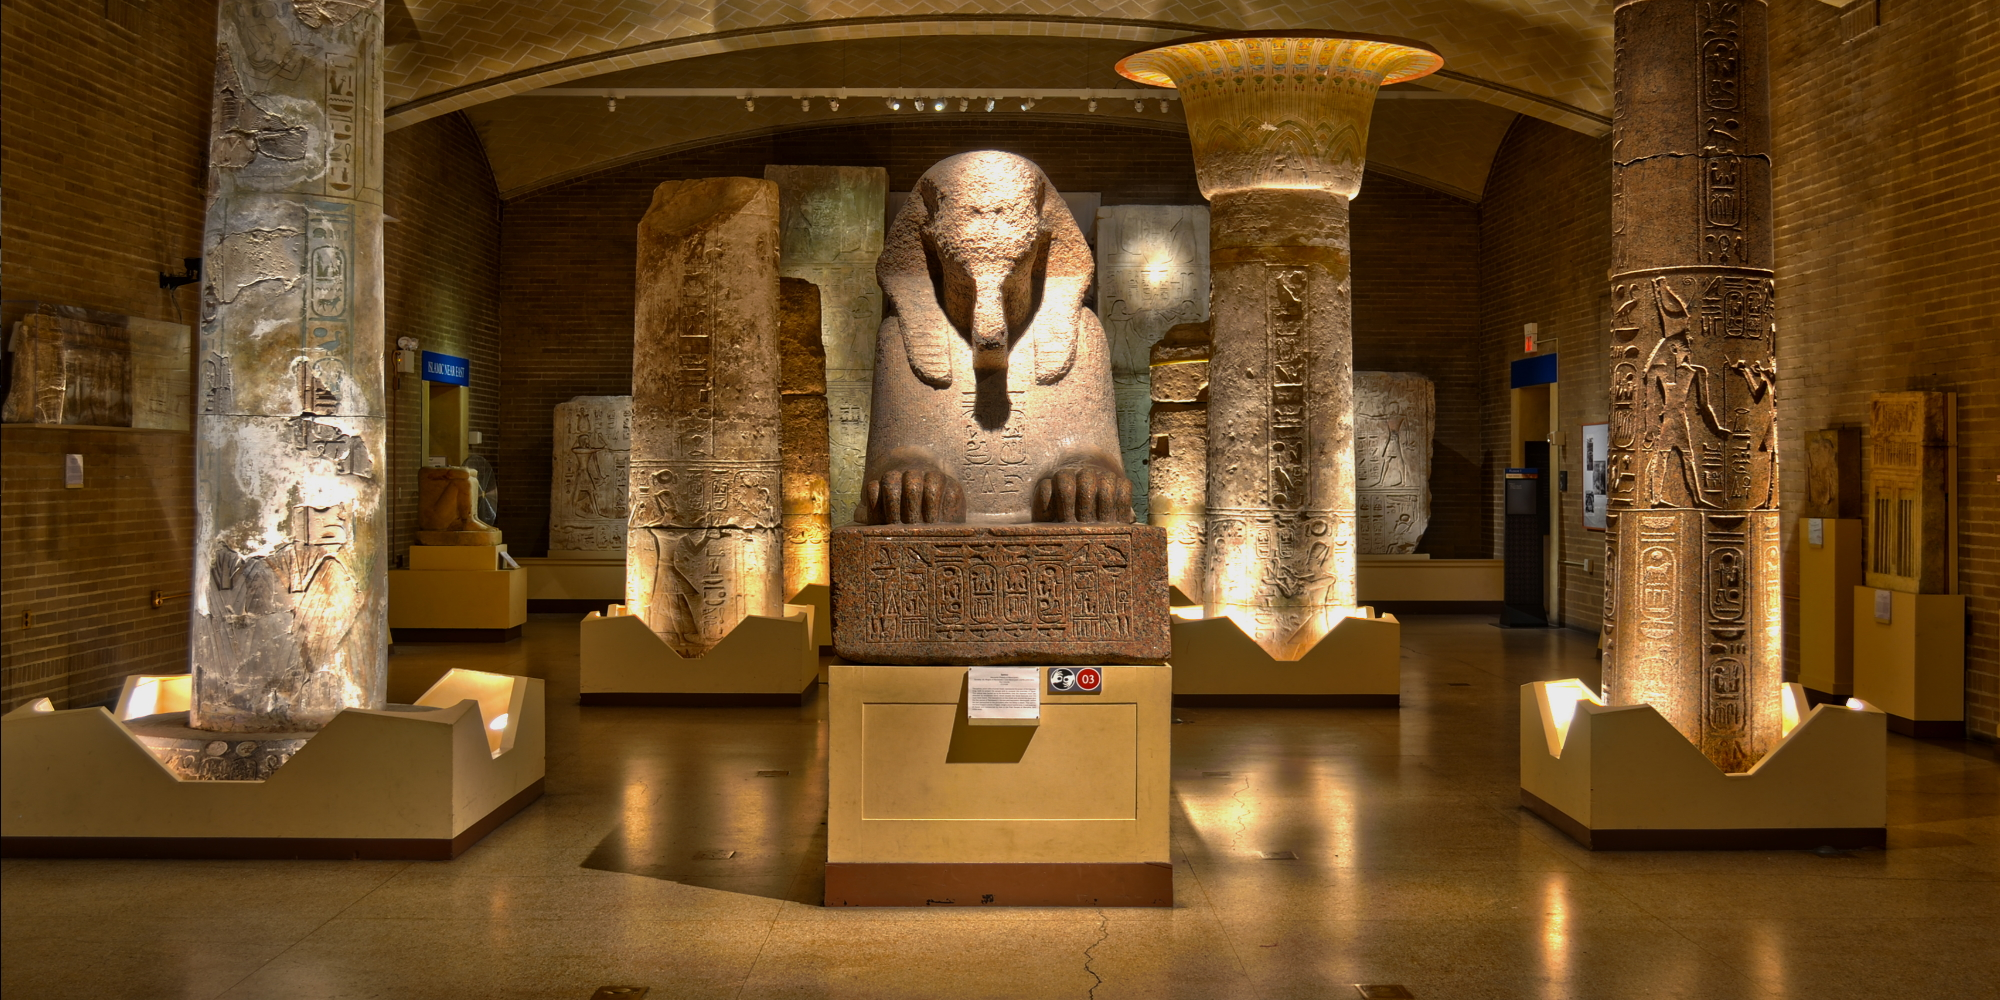
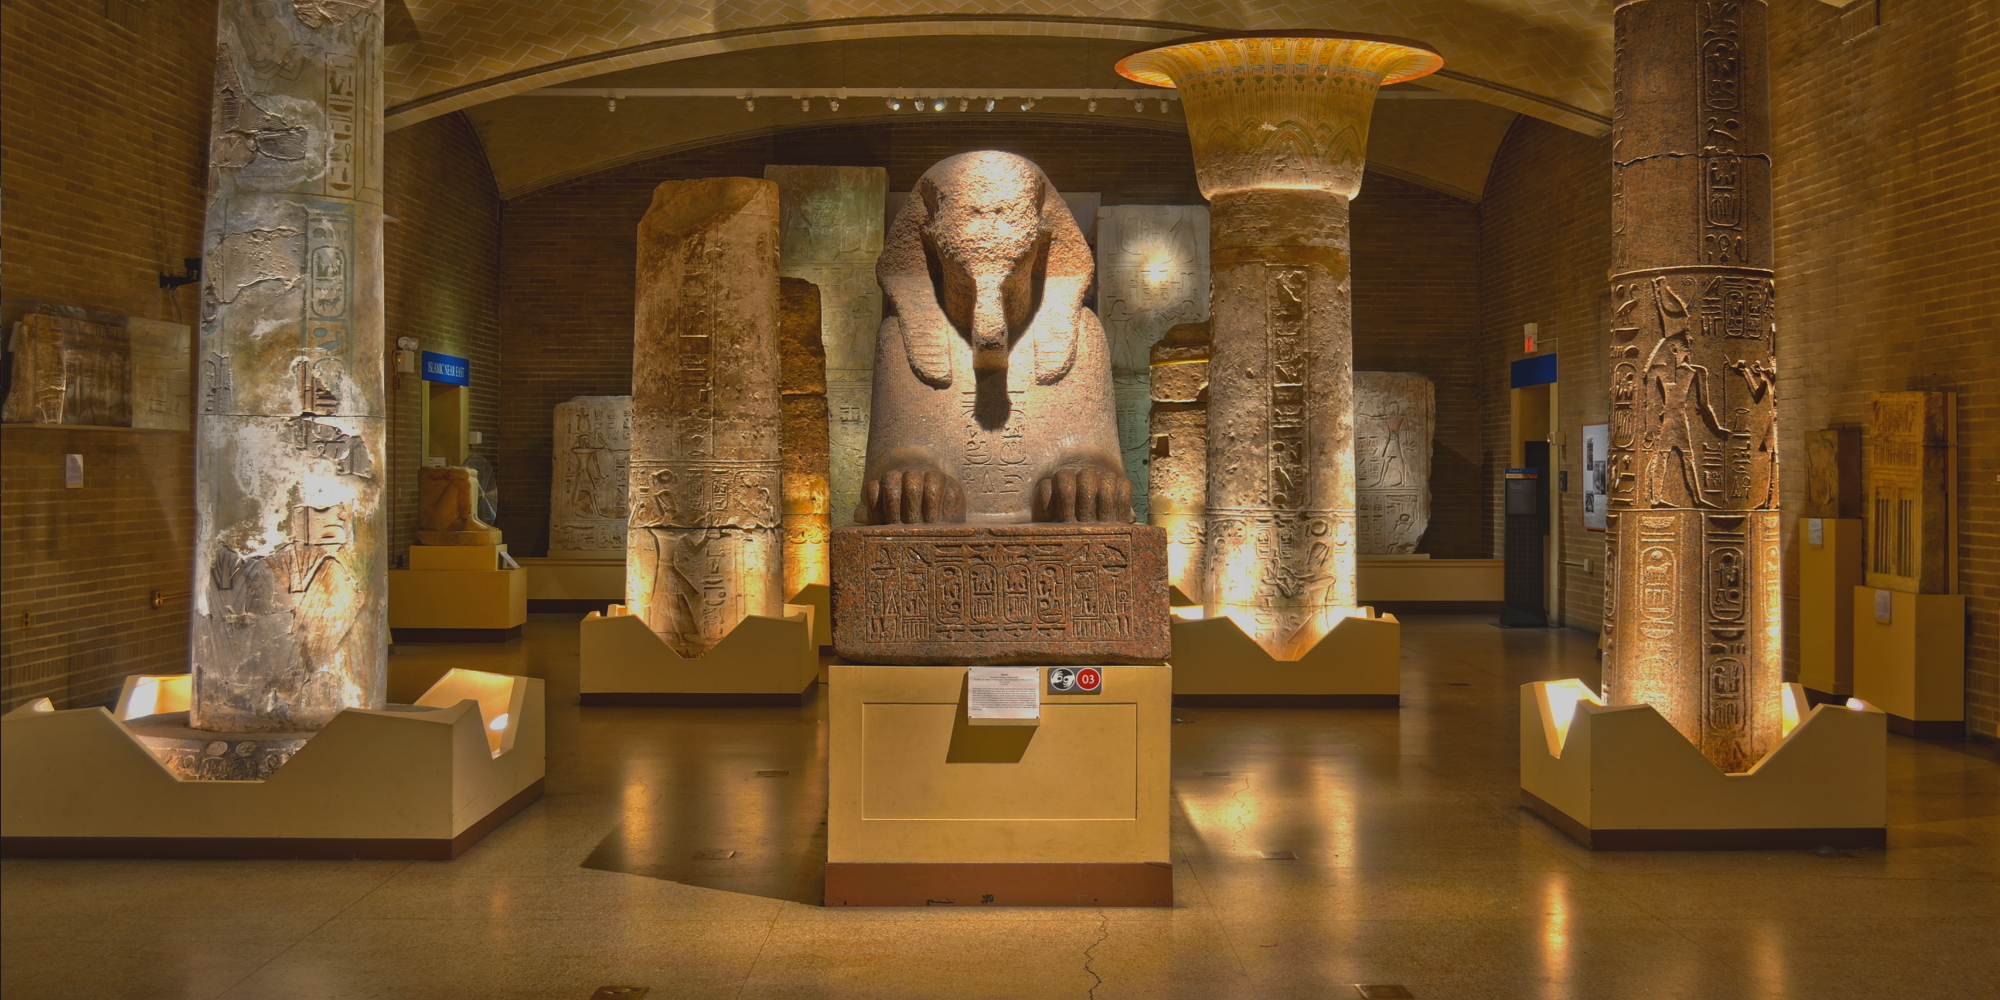
Foam Sword Complete (#1556)
* 2 backgrounds, 4 clothes

- Added the Egyptian Tomb and Fancy Castle room backgrounds
- Added Bondage Bustiers 1 and 2
- Added Latex Panties 2, renamed the existing Latex Panties' in-game display name to Latex Panties 1
- Added Cape clothes accessory
- Accented the "e" in the Beach Promenade background's in-game display name for consistency

* Delete unused BG

Remove Castle2_Dark

* Previews for Bondage Bustiers

Added previews for Bondage Bustier 1 and Bondage Bustier 2

* Fix dialog

* Beach Promenade Café fix

Removed duplicate mention of Beach Promenade Cafe.

* Latex Panties Rename and Shop Adjustment

- Renamed Latex Panties 1 to Crotchless Latex Panties
- Renamed Latex Panties 2 to Latex Panties
- Swapped them around so Latex Panties 2 is the default purchased from the shop, with Crotchless Latex Panties being the bonus addition

* Pool Bottom background, Egyptian Exhibit tweak

- Added Pool Bottom background
- Darkened and lowered contrast of Egyptian Exhibit background to be easier on the eyes

* Foam Sword v1

Reactions not working as planned, seeking to fix.

* Foam Sword v2

Fixed reactions

diff --git a/BondageClub/Assets/Female3DCG/Female3DCG.js b/BondageClub/Assets/Female3DCG/Female3DCG.js
@@ -1998,7 +1998,7 @@ var AssetFemale3DCG = [
 			{ Name: "PolishedMittens", Fetish: ["Metal"], Value: 80, Difficulty: 8, SelfBondage: 6, Time: 20, RemoveTime: 10, AllowLock: true, Audio: "CuffsMetal", AllowPose: ["OverTheHead", "BackBoxTie", "BackElbowTouch", "BackCuffs", "Yoked", "AllFours"], Effect: ["Block", "Prone"] },
 			{ Name: "DuctTape", Fetish: ["Tape"], Value: 50, Difficulty: 5, SelfBondage: 3, Time: 20, RemoveTime: 10, BuyGroup: "DuctTape", Audio: "DuctTape", Hide: ["Gloves"], AllowPose: ["OverTheHead", "BackBoxTie", "BackElbowTouch", "BackCuffs", "Yoked", "AllFours"], SetPose: ["TapedHands"], Effect: ["Block", "Prone"] },
 			{
-				Name: "SpankingToys", Fetish: ["Sadism"], Priority: 46, Random: false, Wear: true, IsRestraint: false, BuyGroup: "SpankingToys", AllowPose: ["OverTheHead", "BackBoxTie", "BackElbowTouch", "BackCuffs", "Yoked", "AllFours"], AllowType: ["Crop", "Flogger", "Cane", "HeartCrop", "Paddle", "WhipPaddle", "Whip", "CattleProd", "TennisRacket", "Feather", "FeatherDuster", "IceCube", "WartenbergWheel", "VibratingWand", "SmallVibratingWand", "CandleWax", "LargeDildo", "PetToy", "Vibrator", "Belt", "Hairbrush", "SmallDildo", "ElectricToothbrush", "Toothbrush", "ShockWand", "Lotion", "Ruler"], DynamicPreviewIcon: C => InventorySpankingToysGetType(C),
+				Name: "SpankingToys", Fetish: ["Sadism"], Priority: 46, Random: false, Wear: true, IsRestraint: false, BuyGroup: "SpankingToys", AllowPose: ["OverTheHead", "BackBoxTie", "BackElbowTouch", "BackCuffs", "Yoked", "AllFours"], AllowType: ["Crop", "Flogger", "Cane", "HeartCrop", "Paddle", "WhipPaddle", "Whip", "CattleProd", "TennisRacket", "Feather", "FeatherDuster", "IceCube", "WartenbergWheel", "VibratingWand", "SmallVibratingWand", "CandleWax", "LargeDildo", "PetToy", "Vibrator", "Belt", "Hairbrush", "SmallDildo", "ElectricToothbrush", "Toothbrush", "ShockWand", "Lotion", "Ruler", "Sword"], DynamicPreviewIcon: C => InventorySpankingToysGetType(C),
 				Extended: true,
 				ParentGroup: null
 			}, {
@@ -2081,6 +2081,9 @@ var AssetFemale3DCG = [
 				PrerequisiteBuyGroups: ["SpankingToys"]
 			}, {
 				Name: "SpankingToysRuler", Value: 3, Random: false, Activity: "SpankItem", DynamicAllowInventoryAdd: () => { return false },
+				PrerequisiteBuyGroups: ["SpankingToys"]
+			}, {
+				Name: "SpankingToysSword", Value: 5, Random: false, Activity: "SpankItem", DynamicAllowInventoryAdd: () => { return false },
 				PrerequisiteBuyGroups: ["SpankingToys"]
 			},
 			{ Name: "HoofMittens", Fetish: ["Pony"], Value: -1, Difficulty: 5, SelfBondage: 4, Time: 15, RemoveTime: 5, AllowLock: true, AllowPose: ["BackBoxTie", "BackElbowTouch", "BackCuffs", "Yoked", "AllFours", "OverTheHead"], SetPose: ["TapedHands"], Effect: ["Block", "Prone"] },

diff --git a/BondageClub/Screens/Inventory/ItemHands/SpankingToys/SpankingToy.js b/BondageClub/Screens/Inventory/ItemHands/SpankingToys/SpankingToy.js
@@ -116,6 +116,10 @@ const InventoryItemHandsSpankingToysOptions = [
 		Name: "Ruler",
 		Property: { Type: "Ruler" },
 		ExpressionTrigger: [{ Group: "Blush", Name: "High", Timer: 10 }, { Group: "Eyebrows", Name: "Soft", Timer: 10 }, { Group: "Eyes", Name: "Closed", Timer: 5 }]
+	}, {
+		Name: "Sword",
+		Property: { Type: "Sword" },
+		ExpressionTrigger: [{ Group: "Blush", Name: "Low", Timer: 5 }, { Group: "Eyebrows", Name: "Harsh", Timer: 5 }]
 	},
 ];
 

diff --git a/BondageClub/Backgrounds/Backgrounds.js b/BondageClub/Backgrounds/Backgrounds.js
@@ -165,6 +165,7 @@ var BackgroundsList = [
     { Name: "SciFiOutdoors", Tag: [BackgroundsTagOutdoor, BackgroundsTagSciFiFantasy] },
     { Name: "Castle", Tag: [BackgroundsTagOutdoor, BackgroundsTagSciFiFantasy] },
     { Name: "EgyptianTomb", Tag: [BackgroundsTagIndoor] },
+    { Name: "PoolBottom", Tag: [BackgroundsTagAquatic] },
 ];
 
 /**
